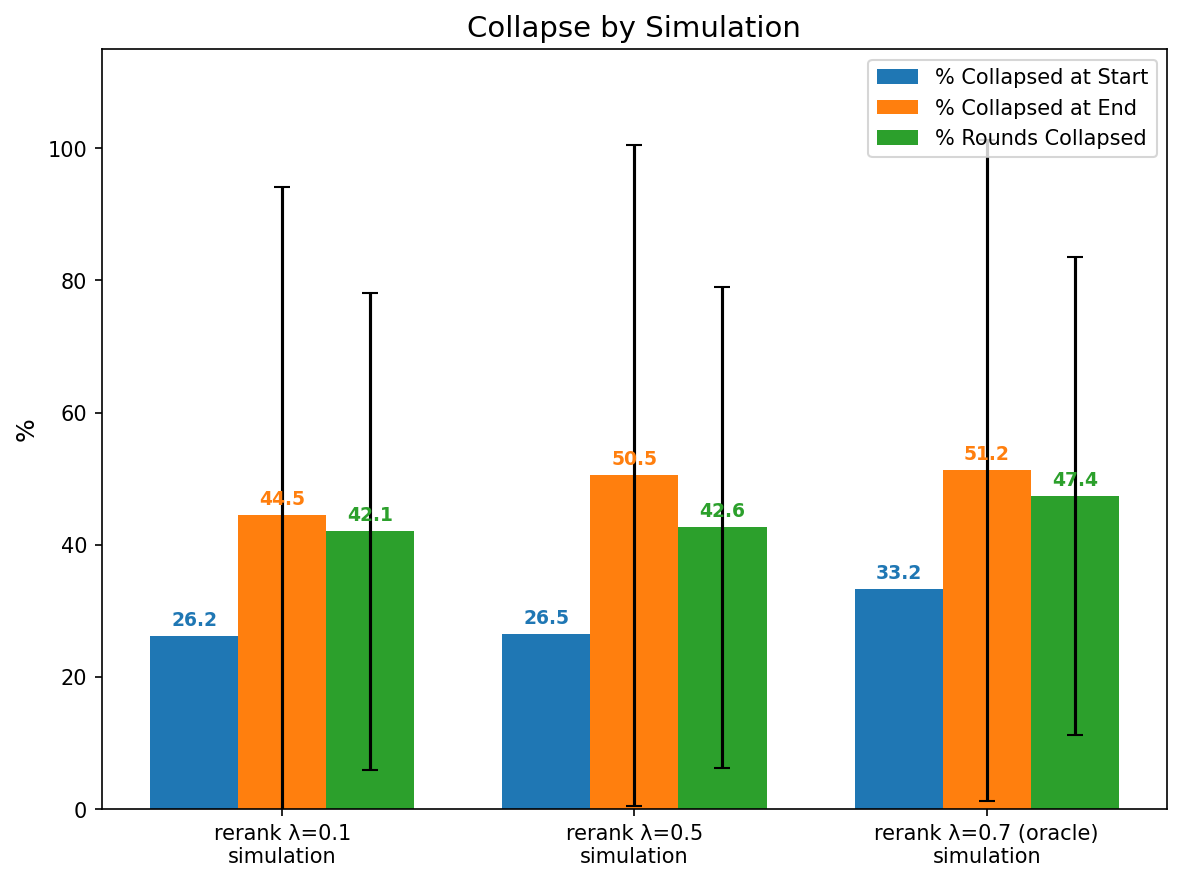
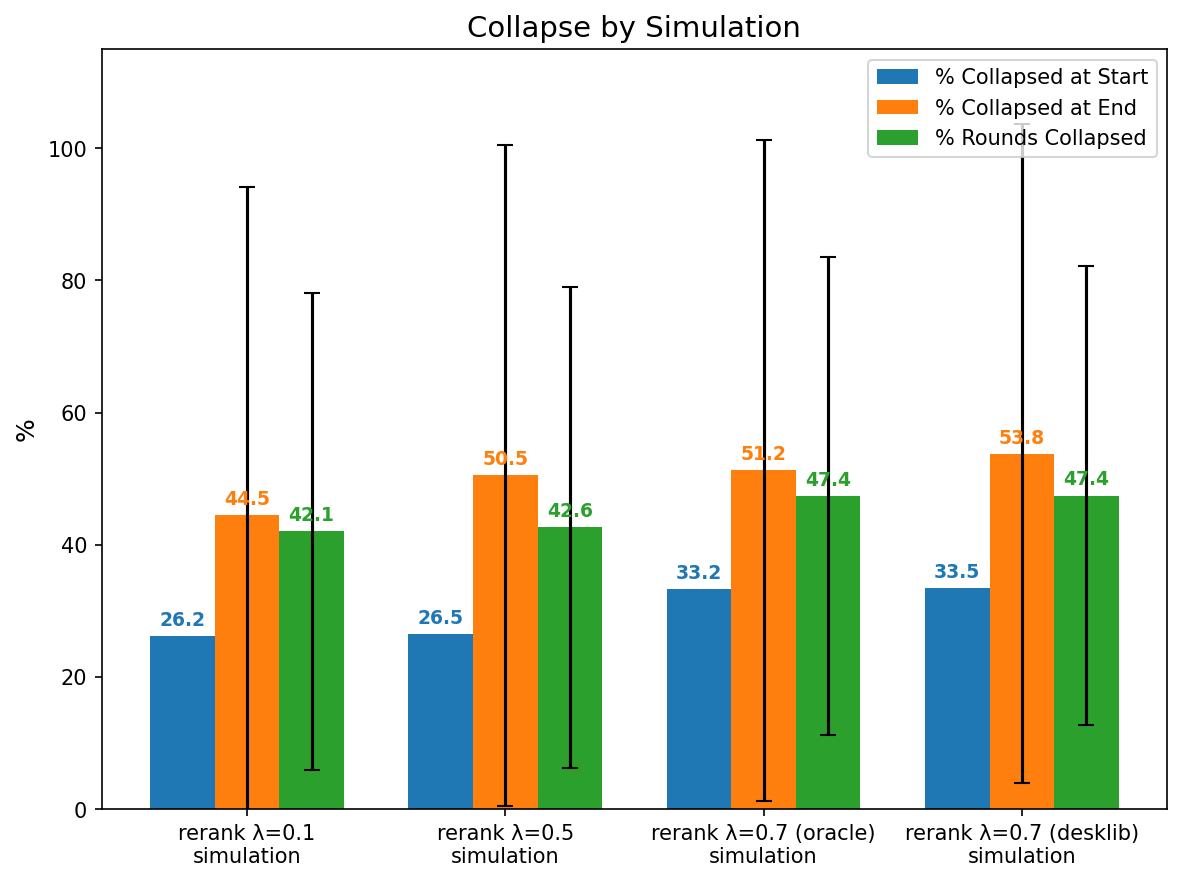
workshop entity viz: full dump coverage (DeepSeek paraphrase + Qwen 0.7 desklib)
Cover every file in the 20260629 dump (35/35):
- add DeepSeek rerun-paraphrase group (RA/RO/Search).
- add the Qwen rerank lambda0.7_desklib line to the Qwen rerank panel
  (now lambda 0.1/0.5/0.7-oracle/0.7-desklib).
- add a coverage-check cell that asserts every *.entities_by_round.jsonl in the
  dump is plotted (fails loudly otherwise).
41 PNGs across 14 groups; README file tree + counts updated.

Changed region(s): [[0.1218, 0.4592, 0.9746, 0.9796]]

diff --git a/workshop_entity_visualizations/README.md b/workshop_entity_visualizations/README.md
@@ -19,11 +19,11 @@ needs ≥2 simulations to compare.)
   Replace One / Search overlaid → `<org>/<model>/baseline/`.
 - **comparison** (Qwen2.5-14B) — the three baseline regimes + Agentic RAG → `Qwen/Qwen2.5-14B-Instruct/comparison/`.
 - **agentic_rag** (Qwen2.5-14B) — Agentic RAG on its own → `Qwen/Qwen2.5-14B-Instruct/agentic_rag/`.
-- **rerun-paraphrase** — paraphrase Replace All / One / Search. Qwen + the appendix models Llama-3.1-8B and
-  Mistral-7B → `<org>/<model>/rerun-paraphrase/`.
-- **rerank** — Qwen2.5-14B has the full λ-sweep (λ = 0.1 / 0.5 / 0.7 oracle). The appendix models
-  (Llama-3.1-8B, Mistral-7B, DeepSeek-R1-Distill-7B) only have λ=0.7 in the dump, so their panel compares
-  the **oracle vs desklib** detector at λ=0.7 → `<org>/<model>/rerank/`.
+- **rerun-paraphrase** — paraphrase Replace All / One / Search, for all four models (Qwen2.5-14B,
+  Llama-3.1-8B, Mistral-7B, DeepSeek-R1-Distill-7B) → `<org>/<model>/rerun-paraphrase/`.
+- **rerank** — Qwen2.5-14B shows the full λ-sweep **plus both detectors** (λ = 0.1 / 0.5 / 0.7 oracle /
+  0.7 desklib). The appendix models (Llama-3.1-8B, Mistral-7B, DeepSeek-R1-Distill-7B) only have λ=0.7 in
+  the dump, so their panel compares the **oracle vs desklib** detector at λ=0.7 → `<org>/<model>/rerank/`.
 
 Metrics: `unique_entities_per_round` = unique mapped entities per round (union across the 10 runs,
 averaged across questions); `entity_similarity_per_round` = mean pairwise cosine similarity of binary
@@ -33,9 +33,10 @@ non-Qwen rerank panels use oracle `#2ca02c` vs desklib `#d62728`.
 
 ## File structure
 
-38 PNGs across 13 group folders. Every group has `unique_entities_per_round.png` +
-`entity_similarity_per_round.png`; multi-simulation groups also have `collapse_by_simulation.png`
-(all except the single-variant `agentic_rag/`, which needs ≥2 simulations to compare):
+41 PNGs across 14 group folders covering **all 35 files** in the dump (the notebook's last cell asserts
+full coverage). Every group has `unique_entities_per_round.png` + `entity_similarity_per_round.png`;
+multi-simulation groups also have `collapse_by_simulation.png` (all except the single-variant
+`agentic_rag/`, which needs ≥2 simulations to compare):
 
 ```
 workshop_entity_visualizations/
@@ -44,7 +45,7 @@ workshop_entity_visualizations/
 │   ├── baseline/            unique_entities_per_round.png  entity_similarity_per_round.png  collapse_by_simulation.png
 │   ├── comparison/          unique_entities_per_round.png  entity_similarity_per_round.png  collapse_by_simulation.png
 │   ├── rerun-paraphrase/    unique_entities_per_round.png  entity_similarity_per_round.png  collapse_by_simulation.png
-│   ├── rerank/              unique_entities_per_round.png  entity_similarity_per_round.png  collapse_by_simulation.png
+│   ├── rerank/              unique_entities_per_round.png  entity_similarity_per_round.png  collapse_by_simulation.png   (λ=0.1/0.5/0.7 oracle + 0.7 desklib)
 │   └── agentic_rag/         unique_entities_per_round.png  entity_similarity_per_round.png
 ├── meta-llama/Llama-3.1-8B-Instruct/
 │   ├── baseline/            unique_entities_per_round.png  entity_similarity_per_round.png  collapse_by_simulation.png
@@ -56,12 +57,12 @@ workshop_entity_visualizations/
 │   └── rerun-paraphrase/    unique_entities_per_round.png  entity_similarity_per_round.png  collapse_by_simulation.png
 └── deepseek-ai/DeepSeek-R1-Distill-Qwen-7B/
     ├── baseline/            unique_entities_per_round.png  entity_similarity_per_round.png  collapse_by_simulation.png
-    └── rerank/              unique_entities_per_round.png  entity_similarity_per_round.png  collapse_by_simulation.png   (oracle vs desklib @ λ=0.7)
+    ├── rerank/              unique_entities_per_round.png  entity_similarity_per_round.png  collapse_by_simulation.png   (oracle vs desklib @ λ=0.7)
+    └── rerun-paraphrase/    unique_entities_per_round.png  entity_similarity_per_round.png  collapse_by_simulation.png
 ```
 
-Counts: 13 `unique_entities_per_round.png` + 13 `entity_similarity_per_round.png` +
-12 `collapse_by_simulation.png` (every group except `agentic_rag/`) = 38 PNGs. (DeepSeek has no
-paraphrase panel — only Llama/Mistral were requested for the additional-paraphrasing appendix figures.)
+Counts: 14 `unique_entities_per_round.png` + 14 `entity_similarity_per_round.png` +
+13 `collapse_by_simulation.png` (every group except `agentic_rag/`) = 41 PNGs.
 
 ## Regenerating
 
